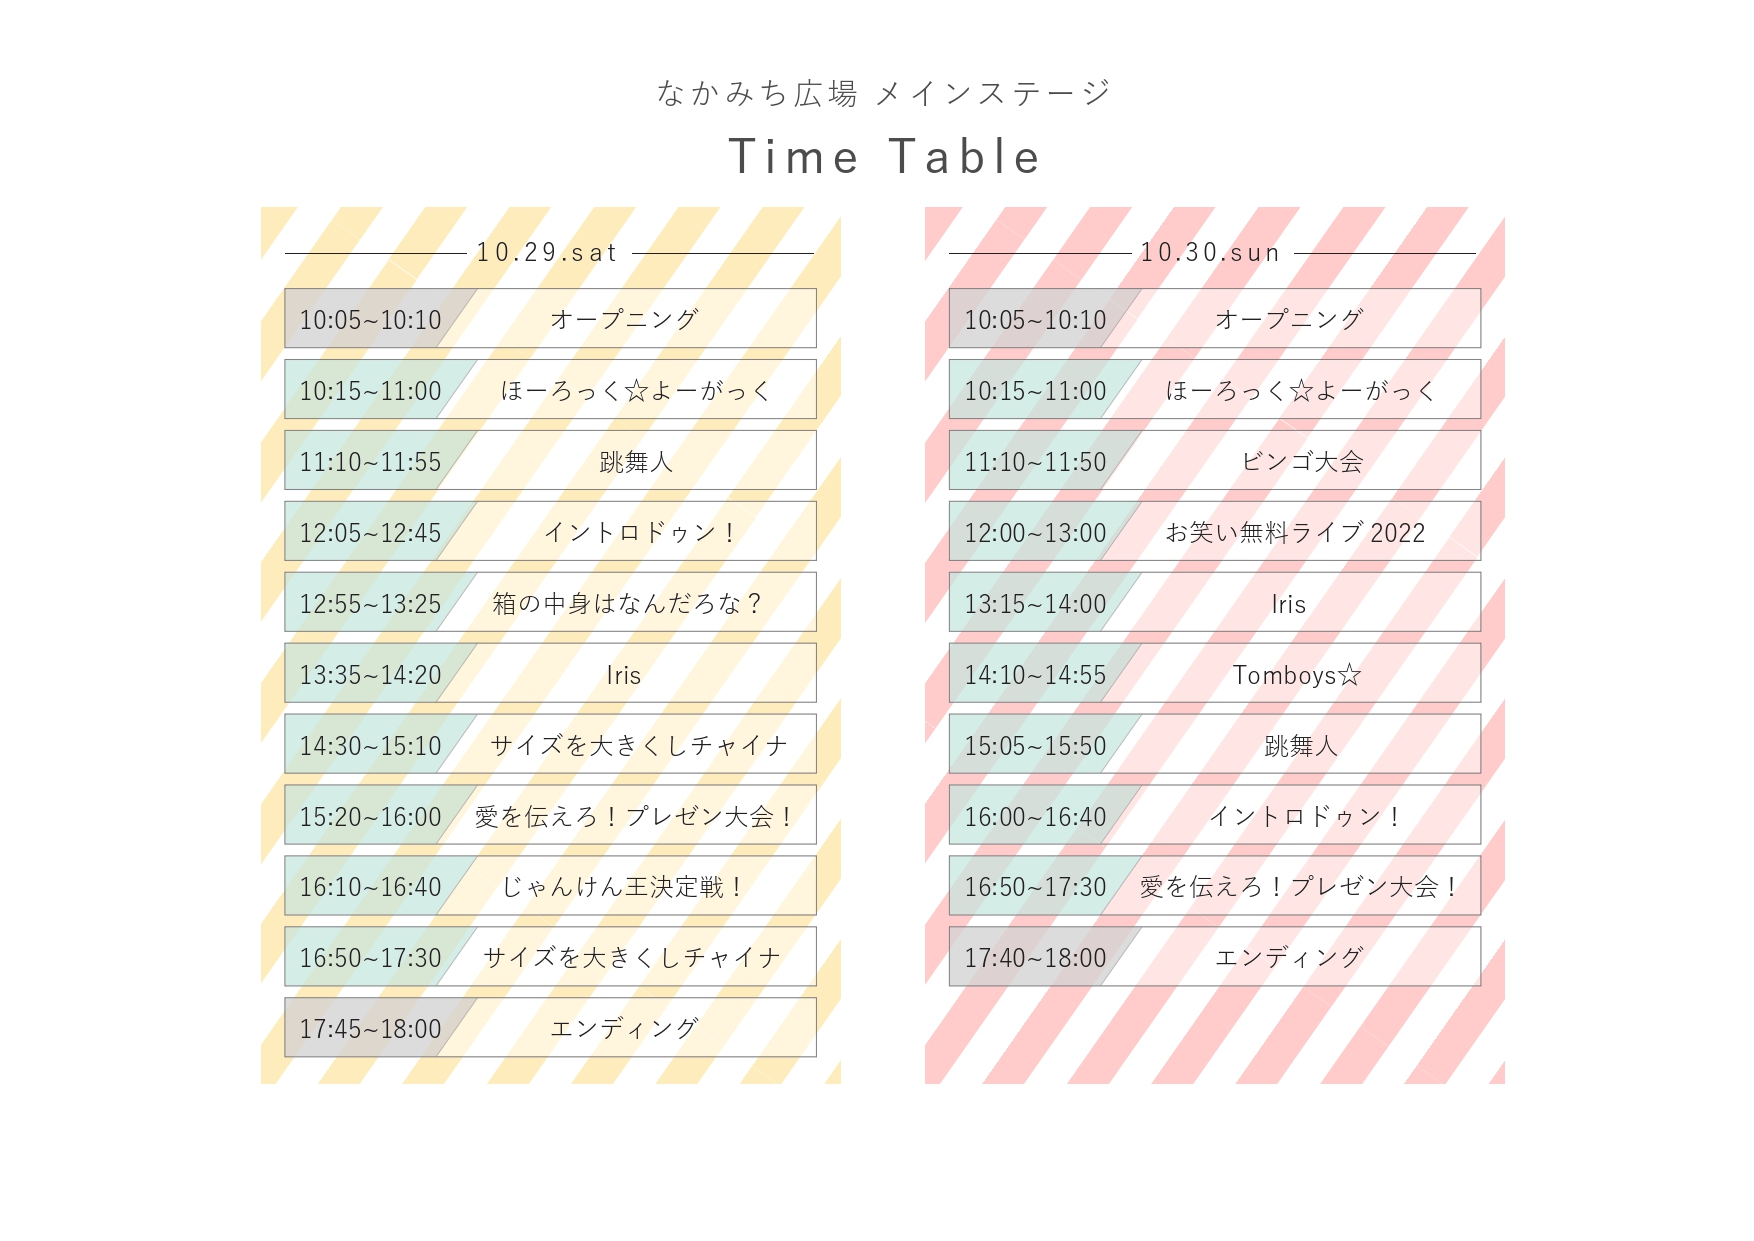
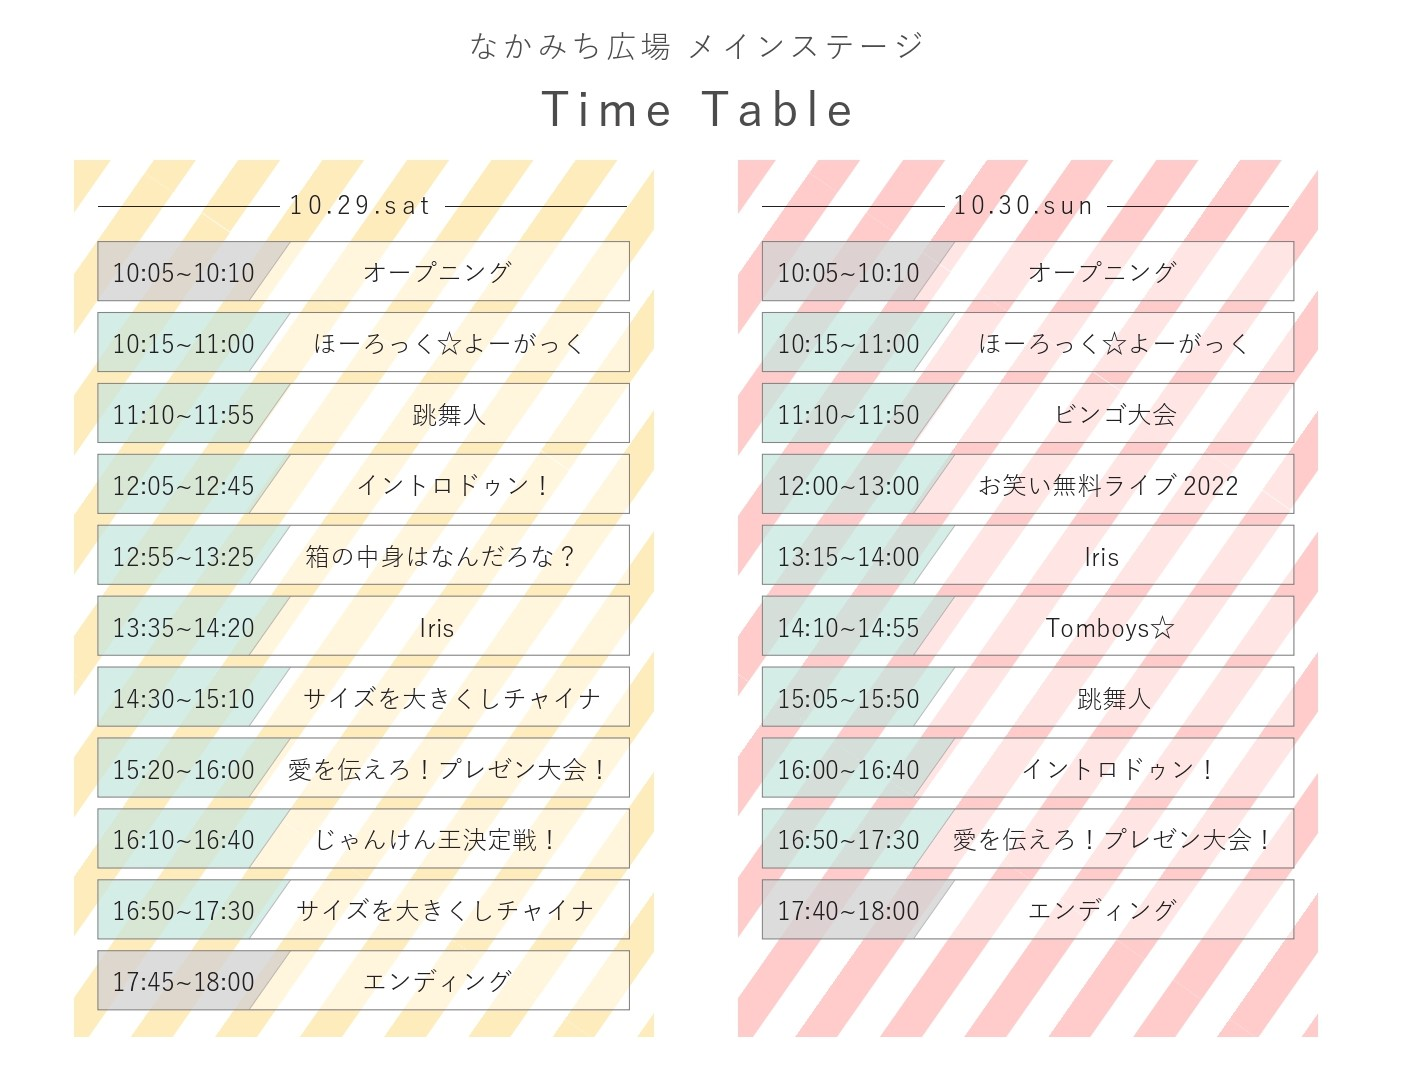
メインとサイドバー、タイムテーブルの画像挿入
timetableの画像をトリミングしました。

diff --git a/index.html b/index.html
@@ -16,7 +16,7 @@
         <aside id="sidebar">
             <div class="sidebar__inner">
                 <div class="sidebar__logo">
-                    <img src="img/logo.png" alt="WELLB-FES2022">
+                    <img src="img/minivisual.jpg" alt="WELLB-FES2022" id="minivisual-size">
                 </div>
                 <div class="sidebar__menu">
                     <ul>
@@ -46,7 +46,7 @@
                             </ul>
                         </div>
                     </div>
-                    
+
                     <li id="pages">
                         <a href=""><u>LIVE</u></a>
                         <a href=""><u>NEWS</u></a>
@@ -56,7 +56,7 @@
 
             <main>
                 <div class="img-wrap">
-                    <img id="title-img" src="./img/title_img.png" alt="title-img">
+                    <img id="title-img" src="./img/mainvisual.jpg" alt="title-img">
                 </div>
 
                 <div class="bg">
@@ -87,7 +87,7 @@
                         </h1>
 
                         <!--
-                            教室展示使用class一覧 
+                            教室展示使用class一覧
                             全体 .classroom-exhibitions
                             階数のh3タグ .floor-num-ex
                             各展示 .classroom-exhibition
@@ -201,42 +201,42 @@
                                     <img src="img/classroom/tomboys_classroom.jpg" alt="img" class="classroom-img">
                                     <div class="exhibition_txt">
                                         <h4 class="classroom-name">20304教室:Tomboys☆</h4>
-                                        <p>チェキ撮影会を行ってます！お待ちしております！ステージ企画も是非ご覧ください！<br>※実施は10/30のみとなります</p>    
+                                        <p>チェキ撮影会を行ってます！お待ちしております！ステージ企画も是非ご覧ください！<br>※実施は10/30のみとなります</p>
                                     </div>
                                 </div>
                                 <div class="classroom-exhibition" >
                                     <img src="img/classroom/RoomSports.jpg" alt="img" class="classroom-img">
                                     <div class="exhibition_txt">
                                         <h4 class="classroom-name">20305教室:室内スポーツ大会</h4>
-                                        <p>室内スポーツでは全員が楽しめるような工夫が沢山！気軽に楽しめること間違いなし！迷ったときはここに来て！お待ちしてます！</p>    
+                                        <p>室内スポーツでは全員が楽しめるような工夫が沢山！気軽に楽しめること間違いなし！迷ったときはここに来て！お待ちしてます！</p>
                                     </div>
                                 </div>
                                 <div class="classroom-exhibition" >
                                     <img src="img/classroom/Sakurai.jpg" alt="img" class="classroom-img">
                                     <div class="exhibition_txt">
                                         <h4 class="classroom-name">20310,20311教室:桜井ゼミ</h4>
-                                        <p><b>310</b>: アドルフ・ロースに関する研究<br><b>展示物</b>: 模型、映像、VR<br><b>311</b>: 設計演習課題<br><b>展示物</b>: 模型、プレゼンボード</p>    
+                                        <p><b>310</b>: アドルフ・ロースに関する研究<br><b>展示物</b>: 模型、映像、VR<br><b>311</b>: 設計演習課題<br><b>展示物</b>: 模型、プレゼンボード</p>
                                     </div>
                                 </div>
                                 <div class="classroom-exhibition" >
                                     <img src="img/classroom/EnglishComuunityZone.jpg" alt="img" class="classroom-img">
                                     <div class="exhibition_txt">
                                         <h4 class="classroom-name">ECZ教室:English Community Zone</h4>
-                                        <p>みなさん、謎解きはすきですか？ECZは、留学生と一緒にinternationalな謎解きゲームを開催します！留学生と関わってみたい！異文化に興味がある！という方必見です<br>Let's have fun!!</p>    
+                                        <p>みなさん、謎解きはすきですか？ECZは、留学生と一緒にinternationalな謎解きゲームを開催します！留学生と関わってみたい！異文化に興味がある！という方必見です<br>Let's have fun!!</p>
                                     </div>
                                 </div>
                                 <div class="classroom-exhibition" >
                                     <img src="img/classroom/Unmei.jpg" alt="img" class="classroom-img">
                                     <div class="exhibition_txt">
                                         <h4 class="classroom-name">学生ホール:運命の人探し</h4>
-                                        <p>配られるカードを手がかりに同じ数字の人を探すというシンプルな企画です。多くの人の参加が必要です！ぜひ友達と一緒に参加してみてください☆もしかしたら本当に運命の人に出会えるかも♡</p>    
+                                        <p>配られるカードを手がかりに同じ数字の人を探すというシンプルな企画です。多くの人の参加が必要です！ぜひ友達と一緒に参加してみてください☆もしかしたら本当に運命の人に出会えるかも♡</p>
                                     </div>
                                 </div>
                                 <div class="classroom-exhibition" >
                                     <img src="img/classroom/Ennnichi.jpg" alt="img" class="classroom-img">
                                     <div class="exhibition_txt">
                                         <h4 class="classroom-name">学生ホール:縁日</h4>
-                                        <p>大学祭といえばお祭り！お祭りといえば縁日！縁日では射的・和投げ・お菓子釣りをやっています。子どもから大人まで楽しめる事間違いなし！どなたでもお気軽にお越しください！</p>    
+                                        <p>大学祭といえばお祭り！お祭りといえば縁日！縁日では射的・和投げ・お菓子釣りをやっています。子どもから大人まで楽しめる事間違いなし！どなたでもお気軽にお越しください！</p>
                                     </div>
                                 </div>
                             </div>
@@ -246,12 +246,12 @@
                                     <img src= alt="img" class="classroom-img">
                                     <div class="exhibition_txt">
                                         <h4 class="classroom-name">保育実習室:学生有志</h4>
-                                        <p>お子さんと保護者の方がのんびり遊べる場所です。時間内の好きな時間にご利用ください。<br>対象:0歳から就学前のお子さんと保護者の方<br>参加費:無料<br>※広場保険に大学負担で加入しています。</p>    
+                                        <p>お子さんと保護者の方がのんびり遊べる場所です。時間内の好きな時間にご利用ください。<br>対象:0歳から就学前のお子さんと保護者の方<br>参加費:無料<br>※広場保険に大学負担で加入しています。</p>
                                     </div>
                                 </div>
                             </div>
                         </div>
-                        
+
                         <h2>企画</h2>
                         <div class="contents-img-wrap">
                             <img src="./img/logo.png" alt="img-1" id="img-1">
@@ -263,7 +263,7 @@
 
                         <h2>タイムテーブル</h2>
                         <div class="timetable-img-wrap">
-                            <img src="./img/logo.png" alt="timetable-img" class="timetable-img">
+                            <img src="./img/timetable.jpg" alt="timetable-img" class="timetable-img" id="timetable-size">
                         </div>
                         <p class="contents-txt" id="timetable-txt">
                             Lorem ipsum dolor sit amet consectetur adipisicing elit. Cumque odit nemo perferendis labore iste incidunt saepe, numquam dolorum doloremque eligendi illum officia culpa ullam impedit iure voluptatum exercitationem, ducimus accusamus.
@@ -326,11 +326,11 @@
 <script>
     let countdown = setInterval(function(){
     const now = new Date()  //今の日時
-    const target = new Date("2022/10/29 0:00:00") 
+    const target = new Date("2022/10/29 0:00:00")
     const remainTime = target - now  //差分を取る（ミリ秒で返ってくる
 
     //指定の日時を過ぎていたら処理をしない
-    if(remainTime < 0) return false 
+    if(remainTime < 0) return false
 
     //差分の日・時・分・秒を取得
     const difDay  = Math.floor(remainTime / 1000 / 60 / 60 / 24)

diff --git a/css/index.css b/css/index.css
@@ -320,7 +320,7 @@ h3 {
         backdrop-filter: blur(5px);
         transition: all 0.5s;
     }
-    
+
     .menu-contents ul {
         padding: 70px 10px 0;
     }
@@ -352,7 +352,7 @@ h3 {
         right: 11px;
         top: 20px;
     }
-    
+
     input:checked ~ .menu-contents {
         right: 0;
     }
@@ -367,4 +367,12 @@ h3 {
         height: 100%;
         object-fit: cover;
     }
+}
+
+#timetable-size{
+  width: 100%;
+}
+
+#minivisual-size{
+  width: 250px;
 }
